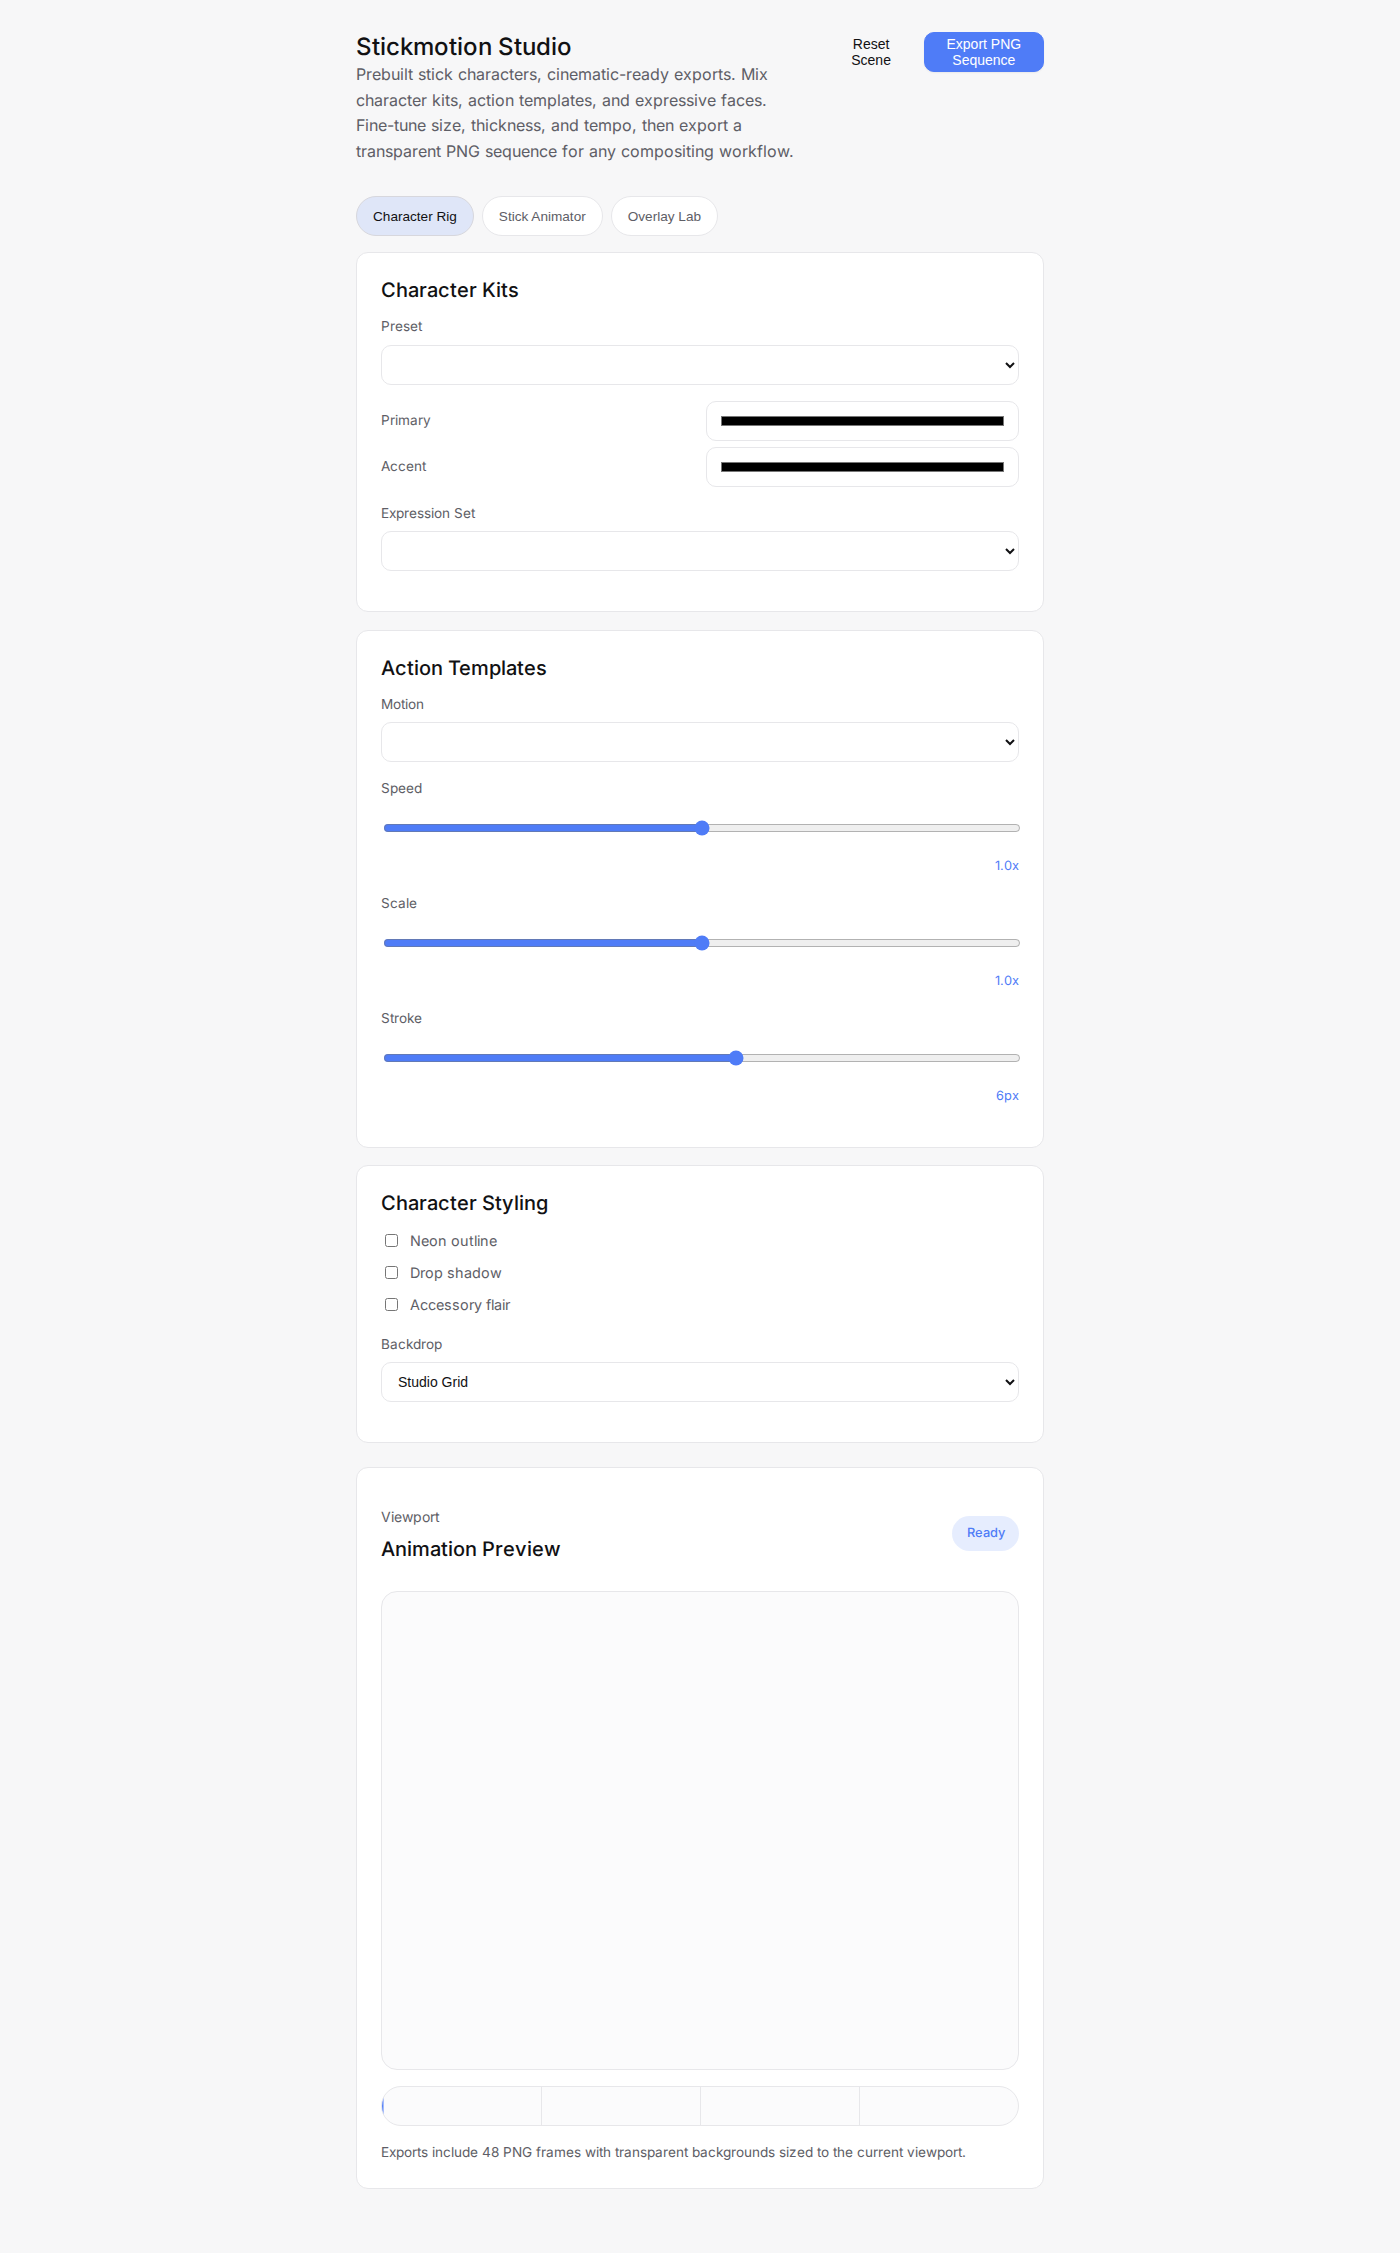
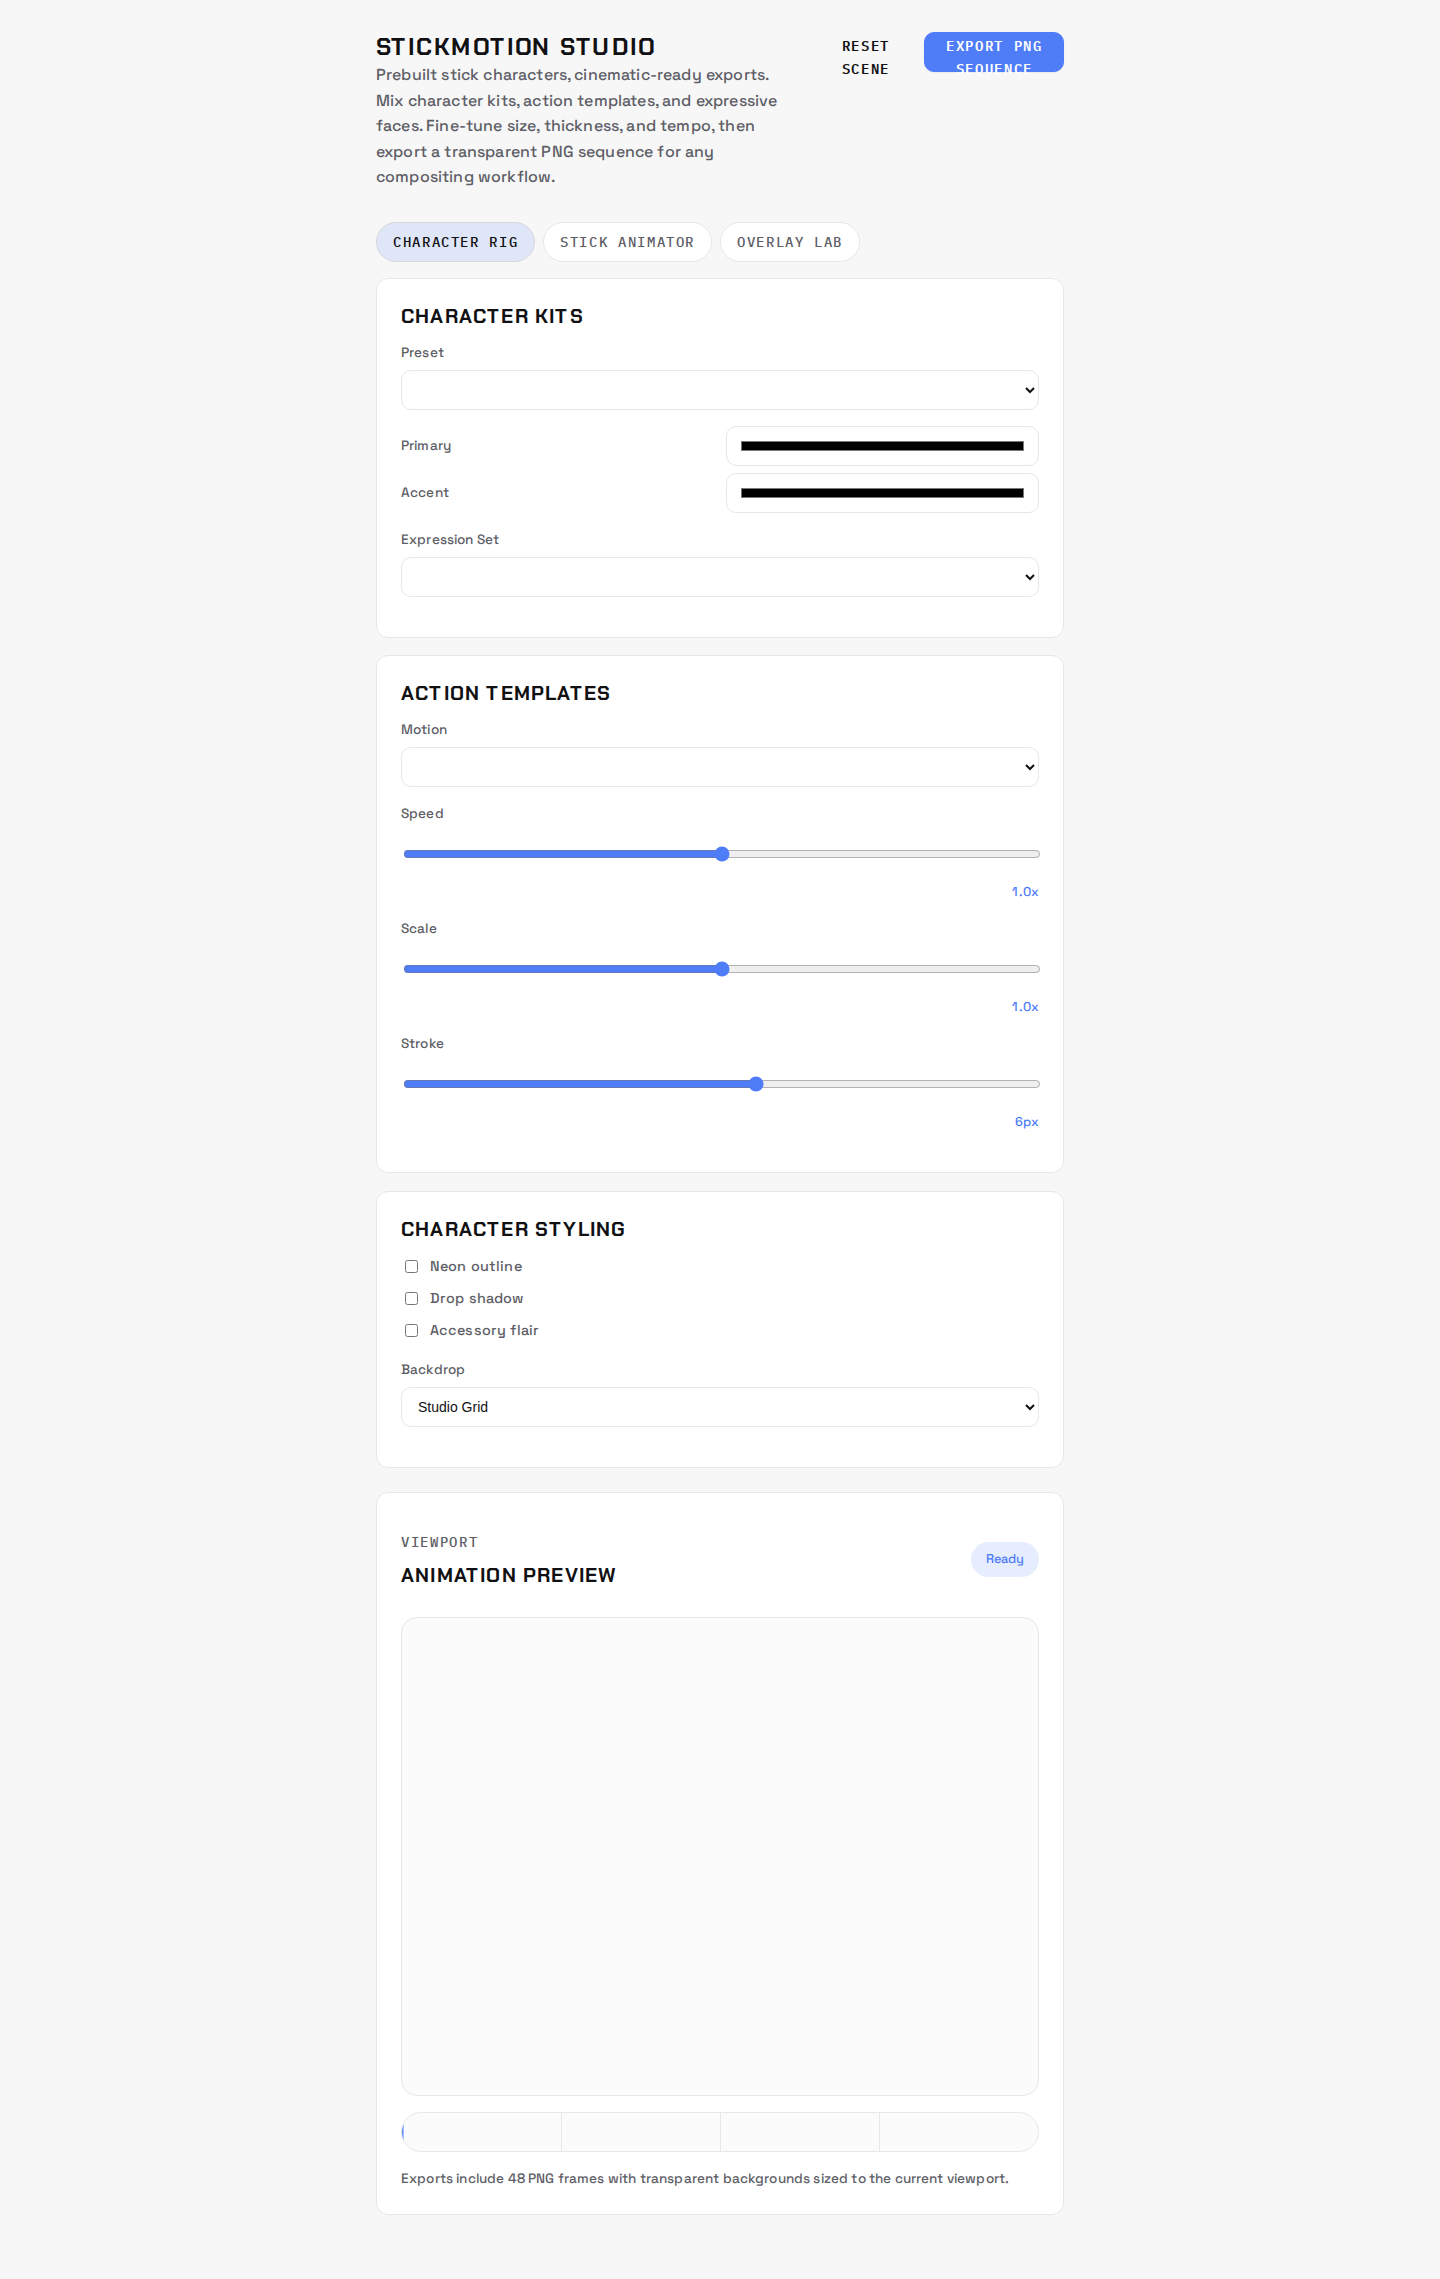
feat: neo-brutal typography refresh

diff --git a/styles.css b/styles.css
@@ -1,3 +1,5 @@
+@import url("https://fonts.googleapis.com/css2?family=Chakra+Petch:wght@500;600;700&family=IBM+Plex+Mono:wght@400;500;600&family=Space+Grotesk:wght@400;500;600;700&display=swap");
+
 :root {
   --bg: #f7f7f8;
   --surface: #ffffff;
@@ -24,8 +26,13 @@
 
   --shadow-1: 0 1px 2px rgba(0, 0, 0, 0.06);
 
-  --font-sans: Inter, system-ui, -apple-system, Segoe UI, Roboto, Arial, sans-serif;
-  --font-mono: ui-monospace, SFMono-Regular, Menlo, Monaco, Consolas, "Liberation Mono", monospace;
+  --font-display: "Chakra Petch", "Space Grotesk", system-ui, sans-serif;
+  --font-body: "Space Grotesk", system-ui, sans-serif;
+  --font-sans: var(--font-body);
+  --font-mono: "IBM Plex Mono", ui-monospace, SFMono-Regular, Menlo, Monaco, Consolas, "Liberation Mono", monospace;
+
+  --tracking-display: 0.06em;
+  --tracking-label: 0.12em;
 
   --content-max: 720px;
   --t-fast: 140ms ease-out;
@@ -91,6 +98,8 @@ body {
   color: var(--text);
   font-size: 16px;
   line-height: 1.6;
+  font-weight: 500;
+  letter-spacing: 0.01em;
 }
 
 a {
@@ -124,14 +133,20 @@ a {
 h1 {
   font-size: 24px;
   line-height: 1.25;
-  font-weight: 500;
+  font-weight: 700;
+  font-family: var(--font-display);
+  text-transform: uppercase;
+  letter-spacing: var(--tracking-display);
   margin: 0;
 }
 
 h2 {
   font-size: 20px;
   line-height: 1.35;
-  font-weight: 500;
+  font-weight: 700;
+  font-family: var(--font-display);
+  text-transform: uppercase;
+  letter-spacing: var(--tracking-display);
   margin: 0 0 var(--s-3);
 }
 
@@ -139,6 +154,9 @@ h2 {
   font-size: 14px;
   color: var(--text-2);
   margin-bottom: var(--s-2);
+  font-family: var(--font-mono);
+  letter-spacing: var(--tracking-label);
+  text-transform: uppercase;
 }
 
 .lede {
@@ -157,13 +175,16 @@ button {
   border-radius: var(--radius-sm);
   padding: 0 14px;
   height: 40px;
-  font-weight: 500;
+  font-weight: 600;
   font-size: 14px;
   cursor: pointer;
   background: var(--surface);
   color: var(--text);
   box-shadow: none;
   user-select: none;
+  font-family: var(--font-mono);
+  letter-spacing: var(--tracking-label);
+  text-transform: uppercase;
   transition: background-color var(--t-fast), border-color var(--t-fast), box-shadow var(--t-fast), transform var(--t-fast), filter var(--t-fast);
 }
 

diff --git a/README.md b/README.md
@@ -47,7 +47,7 @@ No build step is required; edits to `index.html`, `styles.css`, or `app.js` hot-
 - `AGENTS.md` – Repo guidelines and project conventions for future expansion to a larger TS-based stack.
 
 ## Screenshot
-Latest capture (Dec 1, 2025 after `npm run test:e2e` + headless Chromium):
+Latest capture (Dec 25, 2025 after `npm run test:e2e` + headless Chromium):
 | Overview |
 | --- |
 | ![Stickmotion Studio UI](screenshots/overview.png) |
